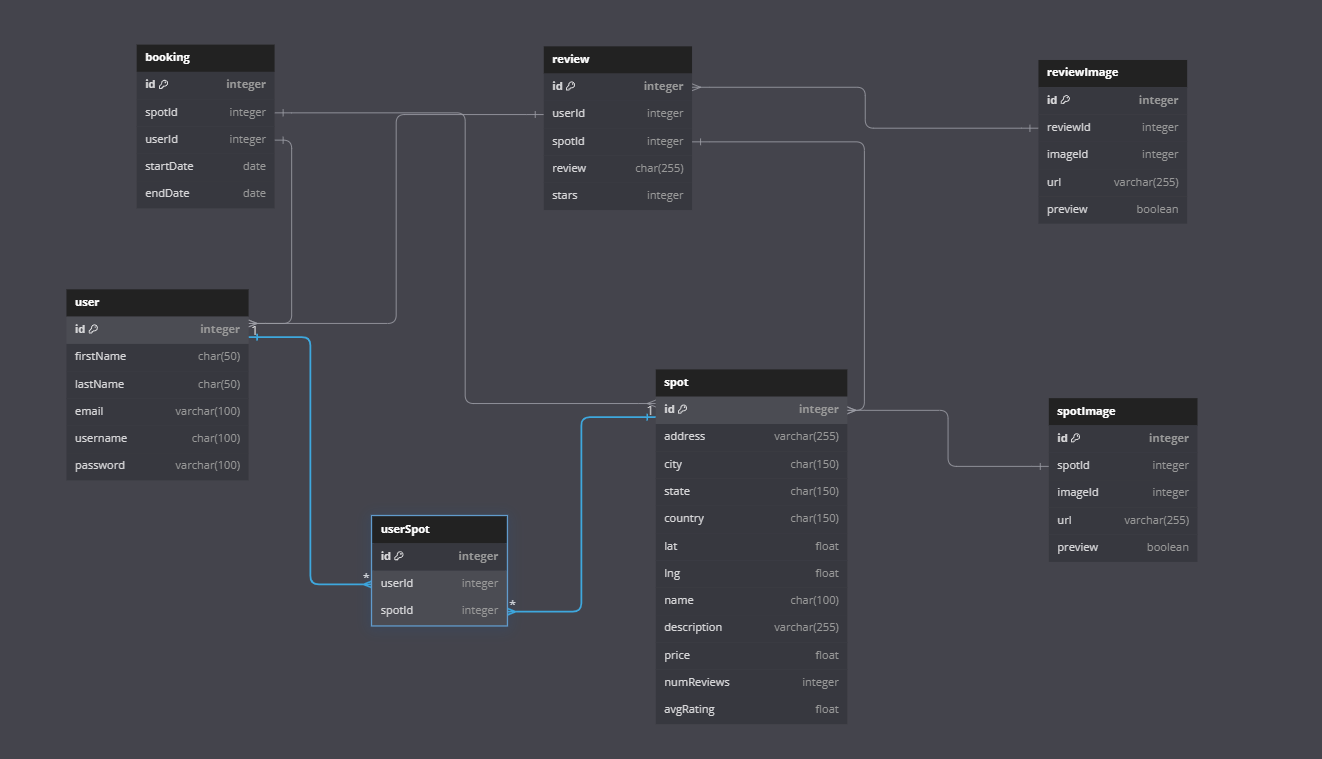
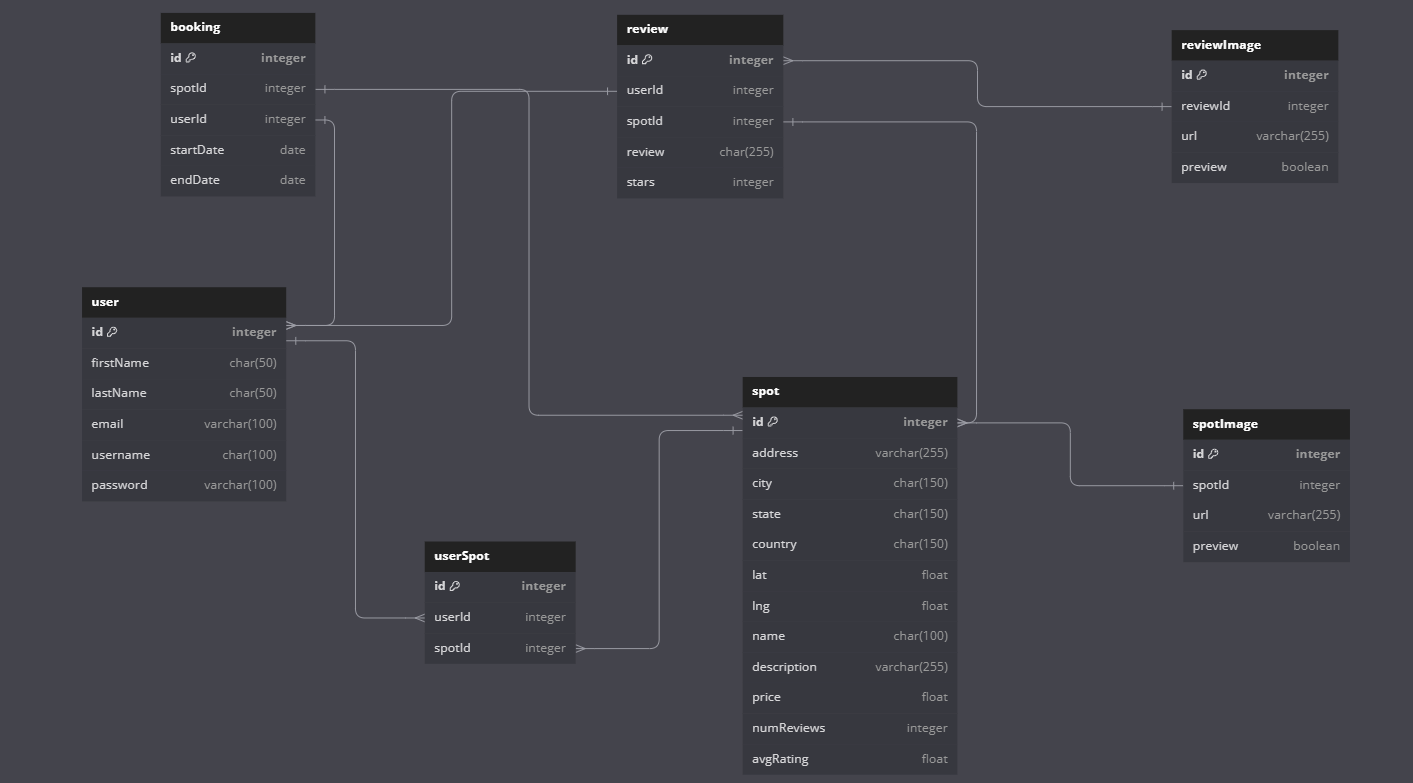
got rid of all references to the deleted image table and model

diff --git a/backend/db/migrations/20241101194512-create-review.js b/backend/db/migrations/20241101194512-create-review.js
@@ -1,45 +1,42 @@
-'use strict';
-
-// const { defaultValueSchemable } = require('sequelize/lib/utils');
-
+"use strict";
 /** @type {import('sequelize-cli').Migration} */
 module.exports = {
   async up(queryInterface, Sequelize) {
-    await queryInterface.createTable('Reviews', {
+    await queryInterface.createTable("Reviews", {
       id: {
         allowNull: false,
         autoIncrement: true,
         primaryKey: true,
-        type: Sequelize.INTEGER
+        type: Sequelize.INTEGER,
       },
       userId: {
         type: Sequelize.INTEGER,
-        allowNull: false
+        allowNull: false,
       },
       spotId: {
         type: Sequelize.INTEGER,
-        allowNull: false
+        allowNull: false,
       },
       review: {
         type: Sequelize.STRING,
-        allowNull: false
+        allowNull: false,
       },
       stars: {
-        type: Sequelize.INTEGER
+        type: Sequelize.INTEGER,
       },
       createdAt: {
         allowNull: false,
         type: Sequelize.DATE,
-        defaultValue: Sequelize.literal('CURRENT_TIMESTAMP')
+        defaultValue: Sequelize.literal("CURRENT_TIMESTAMP"),
       },
       updatedAt: {
         allowNull: false,
         type: Sequelize.DATE,
-        defaultValue: Sequelize.literal('CURRENT_TIMESTAMP')
-      }
+        defaultValue: Sequelize.literal("CURRENT_TIMESTAMP"),
+      },
     });
   },
   async down(queryInterface, Sequelize) {
-    await queryInterface.dropTable('Reviews');
-  }
+    await queryInterface.dropTable("Reviews");
+  },
 };

diff --git a/backend/db/migrations/20241101195353-create-review-image.js b/backend/db/migrations/20241101195353-create-review-image.js
@@ -1,43 +1,39 @@
-'use strict';
+"use strict";
 /** @type {import('sequelize-cli').Migration} */
 module.exports = {
   async up(queryInterface, Sequelize) {
-    await queryInterface.createTable('ReviewImages', {
+    await queryInterface.createTable("ReviewImages", {
       id: {
         allowNull: false,
         autoIncrement: true,
         primaryKey: true,
-        type: Sequelize.INTEGER
+        type: Sequelize.INTEGER,
       },
       reviewId: {
         type: Sequelize.INTEGER,
-        allowNull: false
-      },
-      imageId: {
-        type: Sequelize.INTEGER,
-        allowNull: false
+        allowNull: false,
       },
       url: {
         type: Sequelize.STRING,
-        allowNull: false
+        allowNull: false,
       },
       preview: {
         type: Sequelize.BOOLEAN,
-        allowNull: false
+        allowNull: false,
       },
       createdAt: {
         allowNull: false,
         type: Sequelize.DATE,
-        defaultValue: Sequelize.literal('CURRENT_TIMESTAMP')
+        defaultValue: Sequelize.literal("CURRENT_TIMESTAMP"),
       },
       updatedAt: {
         allowNull: false,
         type: Sequelize.DATE,
-        defaultValue: Sequelize.literal('CURRENT_TIMESTAMP')
-      }
+        defaultValue: Sequelize.literal("CURRENT_TIMESTAMP"),
+      },
     });
   },
   async down(queryInterface, Sequelize) {
-    await queryInterface.dropTable('ReviewImages');
-  }
+    await queryInterface.dropTable("ReviewImages");
+  },
 };

diff --git a/backend/db/migrations/20241101195441-create-spot-image.js b/backend/db/migrations/20241101195441-create-spot-image.js
@@ -1,43 +1,39 @@
-'use strict';
+"use strict";
 /** @type {import('sequelize-cli').Migration} */
 module.exports = {
   async up(queryInterface, Sequelize) {
-    await queryInterface.createTable('SpotImages', {
+    await queryInterface.createTable("SpotImages", {
       id: {
         allowNull: false,
         autoIncrement: true,
         primaryKey: true,
-        type: Sequelize.INTEGER
+        type: Sequelize.INTEGER,
       },
       spotId: {
         type: Sequelize.INTEGER,
-        allowNull: false
-      },
-      imageId: {
-        type: Sequelize.INTEGER,
-        allowNull: false
+        allowNull: false,
       },
       url: {
         type: Sequelize.STRING,
-        allowNull: false
+        allowNull: false,
       },
       preview: {
         type: Sequelize.BOOLEAN,
-        allowNull: false
+        allowNull: false,
       },
       createdAt: {
         allowNull: false,
         type: Sequelize.DATE,
-        defaultValue: Sequelize.literal('CURRENT_TIMESTAMP')
+        defaultValue: Sequelize.literal("CURRENT_TIMESTAMP"),
       },
       updatedAt: {
         allowNull: false,
         type: Sequelize.DATE,
-        defaultValue: Sequelize.literal('CURRENT_TIMESTAMP')
-      }
+        defaultValue: Sequelize.literal("CURRENT_TIMESTAMP"),
+      },
     });
   },
   async down(queryInterface, Sequelize) {
-    await queryInterface.dropTable('SpotImages');
-  }
+    await queryInterface.dropTable("SpotImages");
+  },
 };

diff --git a/backend/db/models/reviewimage.js b/backend/db/models/reviewimage.js
@@ -1,7 +1,5 @@
-'use strict';
-const {
-  Model
-} = require('sequelize');
+"use strict";
+const { Model } = require("sequelize");
 module.exports = (sequelize, DataTypes) => {
   class ReviewImage extends Model {
     /**
@@ -12,30 +10,29 @@ module.exports = (sequelize, DataTypes) => {
     static associate(models) {
       // define association here
       ReviewImage.belongsTo(models.Review, {
-        foreignKey: 'reviewId'
+        foreignKey: "reviewId",
       });
     }
   }
-  ReviewImage.init({
-    reviewId: {
-      type: DataTypes.INTEGER,
-      allowNull: false
+  ReviewImage.init(
+    {
+      reviewId: {
+        type: DataTypes.INTEGER,
+        allowNull: false,
+      },
+      url: {
+        type: DataTypes.STRING,
+        allowNull: false,
+        validate: {
+          isUrl: true,
+        },
+      },
+      preview: { type: DataTypes.BOOLEAN, allowNull: false },
     },
-    imageId: {
-      type: DataTypes.INTEGER,
-      allowNull: false
-    },
-    url: { 
-      type: DataTypes.STRING, 
-      allowNull: false,
-      validate: {
-        isUrl: true
-      }
-    },
-    preview: { type: DataTypes.BOOLEAN, allowNull: false },
-  }, {
-    sequelize,
-    modelName: 'ReviewImage',
-  });
+    {
+      sequelize,
+      modelName: "ReviewImage",
+    }
+  );
   return ReviewImage;
 };

diff --git a/backend/db/models/spotimage.js b/backend/db/models/spotimage.js
@@ -1,7 +1,5 @@
-'use strict';
-const {
-  Model
-} = require('sequelize');
+"use strict";
+const { Model } = require("sequelize");
 module.exports = (sequelize, DataTypes) => {
   class SpotImage extends Model {
     /**
@@ -12,30 +10,29 @@ module.exports = (sequelize, DataTypes) => {
     static associate(models) {
       // define association here
       SpotImage.belongsTo(models.Spot, {
-        foreignKey: 'spotId'
+        foreignKey: "spotId",
       });
     }
   }
-  SpotImage.init({
-    spotId: {
-      type: DataTypes.INTEGER,
-      allowNull: false
+  SpotImage.init(
+    {
+      spotId: {
+        type: DataTypes.INTEGER,
+        allowNull: false,
+      },
+      url: {
+        type: DataTypes.STRING,
+        allowNull: false,
+        validate: {
+          isUrl: true,
+        },
+      },
+      preview: { type: DataTypes.BOOLEAN, allowNull: false },
     },
-    imageId: {
-      type: DataTypes.INTEGER,
-      allowNull: false
-    },
-    url: { 
-      type: DataTypes.STRING, 
-      allowNull: false,
-      validate: {
-        isUrl: true
-      }
-    },
-    preview: { type: DataTypes.BOOLEAN, allowNull: false },
-  }, {
-    sequelize,
-    modelName: 'SpotImage',
-  });
+    {
+      sequelize,
+      modelName: "SpotImage",
+    }
+  );
   return SpotImage;
 };
